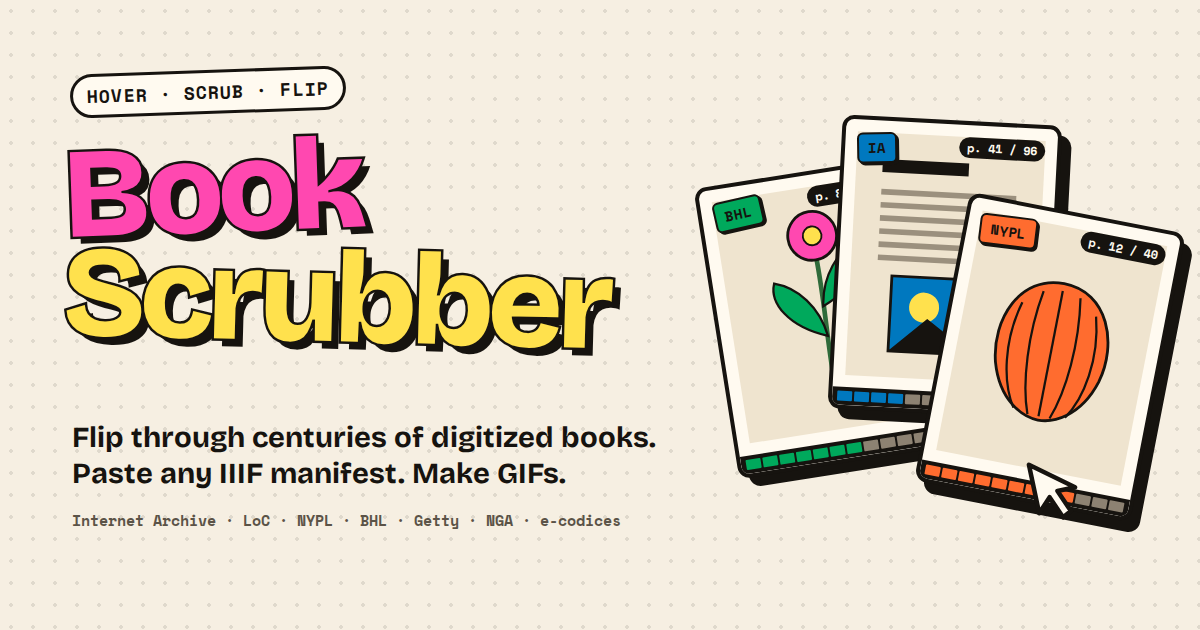
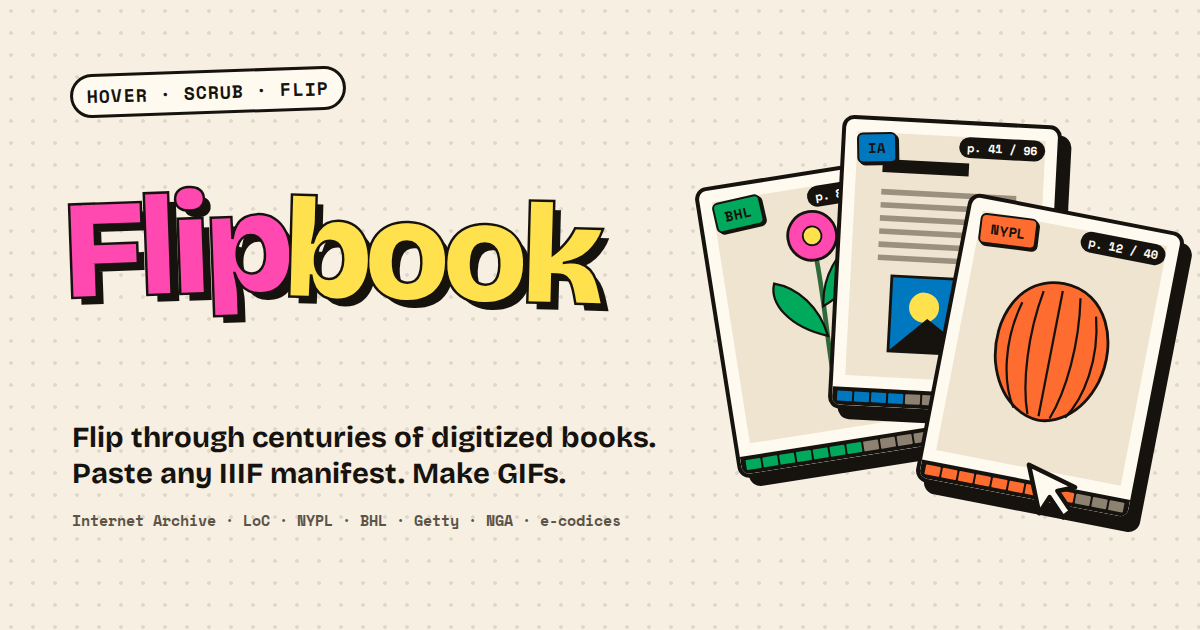
Rename Book Scrubber to Flipbook
- Page title, heading (one two-tone word), link-preview tags and alt text,
  footer, download filename, README, social card and code comments
- The in-app viewer is no longer called "the flipbook" (to avoid clashing
  with the site name): "open the book" / "open it up"
- Storage renamed with migration: the shelf moves from book-scrubber:shelf
  to flipbook:shelf (old key still read), the manifest cache database and
  service-worker image cache get new names and old ones are deleted
- package name and bake/health-check User-Agents

Unchanged on purpose: site and repo URLs (they change only if the repo is
renamed) and the GoatCounter site code (an account identifier).

Claude-Session: https://claude.ai/code/session_01Knj9w5fx7Q6FJSYwBSXRK3

Changed region(s): [[0.0308, 0.2111, 0.5242, 0.573]]

diff --git a/index.html b/index.html
@@ -3,24 +3,24 @@
 <head>
   <meta charset="utf-8">
   <meta name="viewport" content="width=device-width, initial-scale=1">
-  <title>Book Scrubber</title>
+  <title>Flipbook</title>
   <meta name="description" content="Hover over digitized books to flip through their pages. Paste any IIIF manifest or collection. Make GIFs, videos and contact sheets.">
   <!-- Link previews. SITE_URL assumes GitHub Pages at hadro.github.io/book-scrubber; change these if it moves. -->
   <link rel="canonical" href="https://hadro.github.io/book-scrubber/">
   <meta property="og:type" content="website">
-  <meta property="og:site_name" content="Book Scrubber">
-  <meta property="og:title" content="Book Scrubber">
+  <meta property="og:site_name" content="Flipbook">
+  <meta property="og:title" content="Flipbook">
   <meta property="og:description" content="Flip through centuries of digitized books by wiggling your mouse. Paste any IIIF manifest. Make GIFs.">
   <meta property="og:url" content="https://hadro.github.io/book-scrubber/">
   <meta property="og:image" content="https://hadro.github.io/book-scrubber/img/social-card.png">
   <meta property="og:image:width" content="1200">
   <meta property="og:image:height" content="630">
-  <meta property="og:image:alt" content="Book Scrubber: three tilted book cards showing a flower, a text page and a shell, with a mouse cursor scrubbing across them.">
+  <meta property="og:image:alt" content="Flipbook: three tilted book cards showing a flower, a text page and a shell, with a mouse cursor scrubbing across them.">
   <meta name="twitter:card" content="summary_large_image">
-  <meta name="twitter:title" content="Book Scrubber">
+  <meta name="twitter:title" content="Flipbook">
   <meta name="twitter:description" content="Flip through centuries of digitized books by wiggling your mouse. Paste any IIIF manifest. Make GIFs.">
   <meta name="twitter:image" content="https://hadro.github.io/book-scrubber/img/social-card.png">
-  <meta name="twitter:image:alt" content="Book Scrubber: three tilted book cards being scrubbed with a mouse cursor.">
+  <meta name="twitter:image:alt" content="Flipbook: three tilted book cards being scrubbed with a mouse cursor.">
   <meta name="theme-color" content="#f6efe2" media="(prefers-color-scheme: light)">
   <meta name="theme-color" content="#1b1813" media="(prefers-color-scheme: dark)">
   <link rel="apple-touch-icon" href="img/apple-touch-icon.png">
@@ -34,11 +34,10 @@
   <header class="masthead">
     <div class="masthead-inner">
       <p class="kicker">Est. circa 2012 · re-shelved for the IIIF era</p>
-      <h1 class="title" aria-label="Book Scrubber">
-        <span class="title-word">Book</span>
-        <span class="title-word title-word--alt">Scrubber</span>
+      <h1 class="title" aria-label="Flipbook">
+        <span class="title-word">Flip</span><span class="title-word title-word--alt">book</span>
       </h1>
-      <p class="tagline"><span class="only-hover">Hover over a book and wiggle your mouse</span><span class="only-touch">Drag a finger sideways across a book</span> to flip through centuries of pages. <span class="only-hover">Click</span><span class="only-touch">Tap</span> one to open the flipbook and make a GIF.</p>
+      <p class="tagline"><span class="only-hover">Hover over a book and wiggle your mouse</span><span class="only-touch">Drag a finger sideways across a book</span> to flip through centuries of pages. <span class="only-hover">Click</span><span class="only-touch">Tap</span> one to open it up and make a GIF.</p>
     </div>
   </header>
 
@@ -87,7 +86,7 @@
     <p>Images are loaded directly from each library's IIIF servers.
       Rights and attribution belong to the holding institutions; see each item's source link.</p>
     <p>Inspired by the animated book thumbnails that used to flicker through Internet Archive search results.</p>
-    <p>Run a IIIF image server? <a href="https://github.com/hadro/book-scrubber#for-iiif-server-administrators">Here's how Book Scrubber treats it, and how to reach us.</a></p>
+    <p>Run a IIIF image server? <a href="https://github.com/hadro/book-scrubber#for-iiif-server-administrators">Here's how Flipbook treats it, and how to reach us.</a></p>
   </footer>
 
   <div id="drop-overlay" class="drop-overlay" hidden aria-hidden="true">
@@ -174,7 +173,7 @@
             <img id="gif-img" alt="Preview of the file you made">
             <video id="gif-video" muted loop playsinline autoplay hidden></video>
             <figcaption>
-              <a id="gif-download" class="btn btn--green" download="book-scrubber.gif">Download</a>
+              <a id="gif-download" class="btn btn--green" download="flipbook.gif">Download</a>
               <span id="gif-size" class="gif-size"></span>
             </figcaption>
           </figure>
@@ -184,7 +183,7 @@
     </div>
   </dialog>
 
-  <p id="card-hint" class="visually-hidden">Use the left and right arrow keys to flip through pages. Press Enter to open the flipbook.</p>
+  <p id="card-hint" class="visually-hidden">Use the left and right arrow keys to flip through pages. Press Enter to open the book.</p>
 
   <template id="card-template">
     <article class="card">

diff --git a/js/app.js b/js/app.js
@@ -27,7 +27,8 @@ const HOVER_INTENT_MS = 150; // ignore mouse fly-bys shorter than this
 const KEEP_LOADING_MS = 600; // after a hover this long, finish loading the card even once the mouse leaves
 const MIN_PLATES = 3; // plates-only needs at least this many plates on a card, else it shows all non-blank pages
 const DWELL_MS = 200; // only fetch big images once scrubbing pauses
-const STORAGE_KEY = "book-scrubber:shelf";
+const STORAGE_KEY = "flipbook:shelf";
+const LEGACY_STORAGE_KEY = "book-scrubber:shelf"; // before the rename to Flipbook
 const MANIFEST_TTL_MS = 7 * 24 * 3600 * 1000; // re-check remembered manifests weekly
 
 const $ = (sel, root = document) => root.querySelector(sel);
@@ -286,7 +287,7 @@ function friendlyError(err) {
 
 function readShelf() {
   try {
-    return JSON.parse(localStorage.getItem(STORAGE_KEY) || "[]");
+    return JSON.parse(localStorage.getItem(STORAGE_KEY) || localStorage.getItem(LEGACY_STORAGE_KEY) || "[]");
   } catch {
     return [];
   }
@@ -460,7 +461,7 @@ class Card {
     const p = this.book.part;
     const part = p && p.of > 1 ? `${p.label || "part 1"} (1 of ${p.of})` : "";
     $(".card-note", this.el).textContent = [this.book.note, part, pages].filter(Boolean).join(" · ");
-    this.cover.setAttribute("aria-label", `${this.book.title || "Book"}: open flipbook`);
+    this.cover.setAttribute("aria-label", `${this.book.title || "Book"}: open book`);
     const page = $(".card-link-page", this.el);
     page.hidden = !this.book.itemPage;
     if (!page.hidden) page.href = this.book.itemPage;
@@ -904,7 +905,7 @@ pasteForm.addEventListener("submit", async (e) => {
 });
 
 // ---------------------------------------------------------------------------
-// Viewer (flipbook + GIF maker)
+// Viewer (big page view + exports)
 // ---------------------------------------------------------------------------
 //
 // The viewer never bulk-downloads the book. It shows the best image it already

diff --git a/tools/social-card.html b/tools/social-card.html
@@ -22,10 +22,10 @@
     font: 700 18px "SpaceMono", monospace; letter-spacing: .06em; text-transform: uppercase;
     padding: 6px 14px; border: 3px solid var(--ink); border-radius: 999px; background: #fffaf0; transform: rotate(-2deg);
   }
-  h1 { position: absolute; left: 62px; top: 132px; font-size: 128px; line-height: .84; font-weight: 800; letter-spacing: -.045em; }
-  h1 span { display: block; -webkit-text-stroke: 5px var(--ink); paint-order: stroke fill; text-shadow: 8px 8px 0 var(--ink); }
+  h1 { position: absolute; left: 62px; top: 190px; font-size: 138px; white-space: nowrap; line-height: .84; font-weight: 800; letter-spacing: -.045em; }
+  h1 span { display: inline-block; -webkit-text-stroke: 5px var(--ink); paint-order: stroke fill; text-shadow: 8px 8px 0 var(--ink); }
   h1 .a { color: var(--pink); transform: rotate(-2deg); }
-  h1 .b { color: var(--yellow); transform: rotate(1.5deg) translateY(6px); }
+  h1 .b { color: var(--yellow); transform: rotate(1.5deg) translateY(6px); margin-left: -4px; }
   .tag { position: absolute; left: 72px; top: 420px; width: 600px; font-size: 29px; font-weight: 700; line-height: 1.25; }
   .tag small { display: block; margin-top: 16px; font: 700 15px "SpaceMono", monospace; color: #5b5347; white-space: nowrap; }
 
@@ -52,7 +52,7 @@
 <body>
   <div class="card" id="card">
     <p class="kicker">Hover · scrub · flip</p>
-    <h1><span class="a">Book</span><span class="b">Scrubber</span></h1>
+    <h1><span class="a">Flip</span><span class="b">book</span></h1>
     <p class="tag">Flip through centuries of digitized books. Paste any IIIF manifest. Make GIFs.
       <small>Internet Archive · LoC · NYPL · BHL · Getty · NGA · e-codices</small></p>
 

diff --git a/sw.js b/sw.js
@@ -1,4 +1,4 @@
-// Book Scrubber service worker: a long-lived cache for IIIF page images.
+// Flipbook service worker: a long-lived cache for IIIF page images.
 //
 // Many image servers send short (or no) cache headers, so without this a
 // returning visitor would re-request the same thumbnails. We keep CORS-mode
@@ -6,14 +6,22 @@
 // (the app's own files, baked thumbnails, manifests, images from servers
 // without CORS) passes straight through.
 
-const CACHE = "iiif-images-v1";
+const CACHE = "flipbook-iiif-images-v1";
 const MAX_ENTRIES = 1500;
 const MAX_AGE_MS = 30 * 24 * 3600 * 1000;
-const STAMP = "x-book-scrubber-cached-at";
+const STAMP = "x-flipbook-cached-at";
 let putsSinceTrim = 0;
 
 self.addEventListener("install", () => self.skipWaiting());
-self.addEventListener("activate", (event) => event.waitUntil(self.clients.claim()));
+self.addEventListener("activate", (event) =>
+  event.waitUntil(
+    // Drop caches from older versions (including the pre-rename "iiif-images-v1").
+    caches
+      .keys()
+      .then((keys) => Promise.all(keys.filter((k) => k !== CACHE).map((k) => caches.delete(k))))
+      .then(() => self.clients.claim())
+  )
+);
 
 self.addEventListener("fetch", (event) => {
   const req = event.request;

diff --git a/js/store.js b/js/store.js
@@ -2,12 +2,16 @@
 // re-download them. Every call fails soft: private windows, blocked storage and
 // old browsers just behave as if nothing is cached.
 
-const DB_NAME = "book-scrubber";
+const DB_NAME = "flipbook";
 const STORE = "manifests";
 let dbPromise = null;
 
 function open() {
   if (!dbPromise) {
+    // Tidy up the cache left by the app's old name (Book Scrubber).
+    try {
+      indexedDB.deleteDatabase("book-scrubber");
+    } catch {}
     dbPromise = new Promise((resolve, reject) => {
       const req = indexedDB.open(DB_NAME, 1);
       req.onupgradeneeded = () => req.result.createObjectStore(STORE);

diff --git a/js/export.js b/js/export.js
@@ -6,7 +6,7 @@ import { GIFEncoder, quantize, applyPalette } from "../vendor/gifenc.esm.js";
 
 export function corsError() {
   const e = new Error(
-    "This library's image server doesn't let other websites re-use its images (no CORS headers), so this can't be made in the browser for this item. The scrubber still works!"
+    "This library's image server doesn't let other websites re-use its images (no CORS headers), so this can't be made in the browser for this item. Scrubbing still works!"
   );
   e.name = "CorsError";
   return e;

diff --git a/css/style.css b/css/style.css
@@ -1,4 +1,4 @@
-/* Book Scrubber: risograph zine meets card catalog. */
+/* Flipbook: risograph zine meets card catalog. */
 
 :root {
   --paper: #f6efe2;

diff --git a/README.md b/README.md
@@ -1,13 +1,13 @@
-# Book Scrubber
+# Flipbook
 
-Hover over a digitized book and wiggle your mouse to flip through its pages. Click one to open a flipbook with play controls, and to turn it into an animated GIF, a short video or a contact sheet.
+Hover over a digitized book and wiggle your mouse to flip through its pages. Click one to open it with play controls, and to turn it into an animated GIF, a short video or a contact sheet.
 
 It's a small homage to the animated book thumbnails that used to flicker through Internet Archive search results about ten years ago. It works with **any IIIF manifest**, so books from almost any library can go on the shelf.
 
 ## Features
 
 - **Links to the source.** Every card links to its IIIF manifest and, when known, the item's page at its institution. The item page comes from, in order: a `page` set in `js/examples.js`, the manifest's `homepage` (v3) or `related` (v2), or the URL itself for IA, LoC, NYPL, e-codices, NGA and Yale. The viewer shows the same links.
-- **Hover-scrubber cards.** Mouse position maps to a page. Pages load "coarse first" (ends, then middle, then quarters, and so on), so you can scrub the whole book almost at once. On phones, drag a finger sideways across a card.
+- **Hover-to-flip cards.** Mouse position maps to a page. Pages load "coarse first" (ends, then middle, then quarters, and so on), so you can scrub the whole book almost at once. On phones, drag a finger sideways across a card.
 - **Skips blank pages; "plates only" mode.** Each thumbnail is measured as it loads (at 48×48 px: brightness spread, colour, dark areas, and the largest darker region with varied tones inside, which catches sepia photographs and engravings) and labelled blank, text or plate. Blank pages are never shown while scrubbing. Turn on "Plates only" to scrub just the illustrations; it starts off on every visit, and cards show "· plates" while it's filtering. Books with fewer than 3 detected plates show all non-blank pages instead. This works for servers that allow CORS and for the baked shelf; `js/analyze.js` has the thresholds.
 - **Paste your own, or drag it in.** Accepts a IIIF Presentation v2 or v3 manifest or **collection** (its first 36 books go on the shelf), or a page URL from:
   - `archive.org/details/…`, or a bare IA identifier
@@ -24,7 +24,7 @@ It's a small homage to the animated book thumbnails that used to flicker through
   BHL doesn't publish IIIF manifests at a predictable address. Paste the book's archive.org link instead; BHL hosts its scans there.
 
   Pasted books stay on your shelf in `localStorage`.
-- **Flipbook viewer.** Scrubbing, play/pause, speed control, boomerang mode and keyboard controls. Share links open the book at the page you're on (`#m=…&p=42`). The viewer also links to the item page and the manifest.
+- **Viewer.** Scrubbing, play/pause, speed control, boomerang mode and keyboard controls. Share links open the book at the page you're on (`#m=…&p=42`). The viewer also links to the item page and the manifest.
 - **Exports.** GIF, video (WebM or MP4, whichever the browser can record) or a contact-sheet JPEG. Choose frames, width, speed and pages (no blanks, plates only, or all). A credit line with the title and institution is added by default. GIFs are encoded in the browser with [gifenc](https://github.com/mattdesl/gifenc), vendored in `vendor/`.
 - **Flash mode.** Every card cycles its pages at once, like the old IA search results.
 - Right-to-left books scrub in the right direction. Light and dark themes follow the OS setting.
@@ -62,7 +62,7 @@ The link-preview metadata in `index.html` assumes the site lives at `https://had
 
 ```yaml
 ---
-title: Book Scrubber
+title: Flipbook
 emoji: 📚
 colorFrom: pink
 colorTo: yellow
@@ -130,15 +130,15 @@ Measured against a fake IIIF server (with cache headers) in headless Chrome:
 
 ## For IIIF server administrators
 
-Book Scrubber is a static web page. Everything runs in visitors' browsers, so requests come from their IP addresses, carrying this site's address in the `Referer` header. What it asks your server for:
+Flipbook is a static web page. Everything runs in visitors' browsers, so requests come from their IP addresses, carrying this site's address in the `Referer` header. What it asks your server for:
 
 - The manifest, once per book per visitor per week.
-- Page images at 300px wide (shelf thumbnails and viewer overview), and at 800px for the page a viewer pauses on. A ready-made `thumbnail` or advertised `sizes` in your manifest are used instead when they're close to those widths. The quickest way to cut Book Scrubber's cost to your server is to publish either one.
+- Page images at 300px wide (shelf thumbnails and viewer overview), and at 800px for the page a viewer pauses on. A ready-made `thumbnail` or advertised `sizes` in your manifest are used instead when they're close to those widths. The quickest way to cut Flipbook's cost to your server is to publish either one.
 - At most 3 requests at a time from any one browser, fewer if you're slow, pausing if you return errors. Nothing is requested for books a visitor isn't looking at.
 
-The example shelf's thumbnails are downloaded once, by the "Bake example shelf" GitHub Action (User-Agent `book-scrubber example baker`), and served from this repository.
+The example shelf's thumbnails are downloaded once, by the "Bake example shelf" GitHub Action (User-Agent `flipbook example baker`), and served from this repository.
 
-If Book Scrubber is causing you trouble, or you'd rather your collection not appear on the example shelf, please [open an issue](https://github.com/hadro/book-scrubber/issues) and it will be dealt with promptly.
+If Flipbook is causing you trouble, or you'd rather your collection not appear on the example shelf, please [open an issue](https://github.com/hadro/book-scrubber/issues) and it will be dealt with promptly.
 
 ## Analytics
 
@@ -161,8 +161,8 @@ Page views record the page path only. Share links keep the book in the `#m=…` 
 
 ## Known limits
 
-- **GIFs need CORS.** The scrubber works with any IIIF server. Making a GIF means drawing the images onto a canvas, which works only when the image server sends `Access-Control-Allow-Origin`. When it doesn't, the viewer says so, and scrubbing still works. The fix would be a small proxy, for example a Hugging Face Space with a Python backend.
+- **GIFs need CORS.** Scrubbing works with any IIIF server. Making a GIF means drawing the images onto a canvas, which works only when the image server sends `Access-Control-Allow-Origin`. When it doesn't, the viewer says so, and scrubbing still works. The fix would be a small proxy, for example a Hugging Face Space with a Python backend.
 - **Level-0 image servers**, which serve only pre-made sizes, are handled when the manifest lists `sizes`. Otherwise the app falls back to the full image.
 - **Collections** are read one level deep. Nested sub-collections aren't opened, so paste one of those directly.
 - **Page detection is heuristic.** Unusual scans (dark backgrounds, colour charts, heavy bleed-through) can be misjudged. When a book has no detected plates, "plates only" falls back to all non-blank pages.
-- **Link previews are site-wide.** Crawlers don't run JavaScript, so a shared book link previews as Book Scrubber, not as the book itself. Per-book previews would need a server.
+- **Link previews are site-wide.** Crawlers don't run JavaScript, so a shared book link previews as Flipbook, not as the book itself. Per-book previews would need a server.
